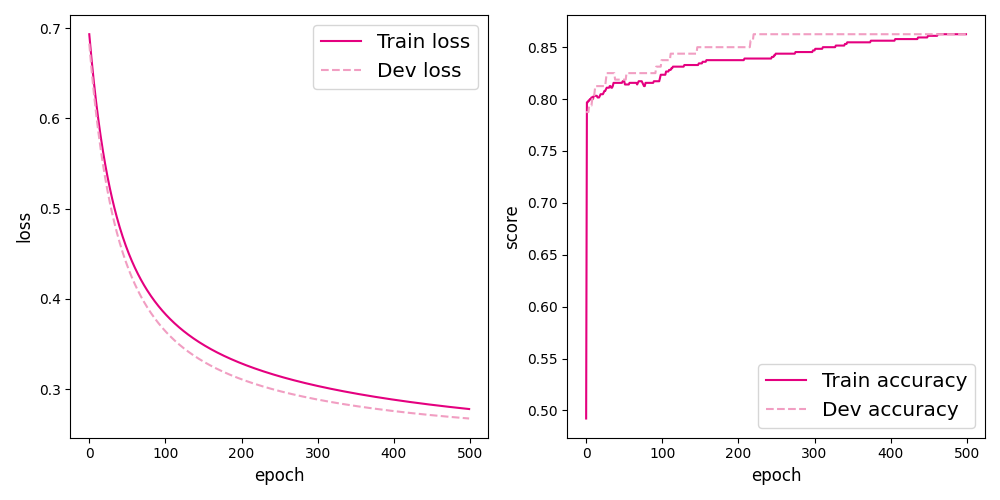
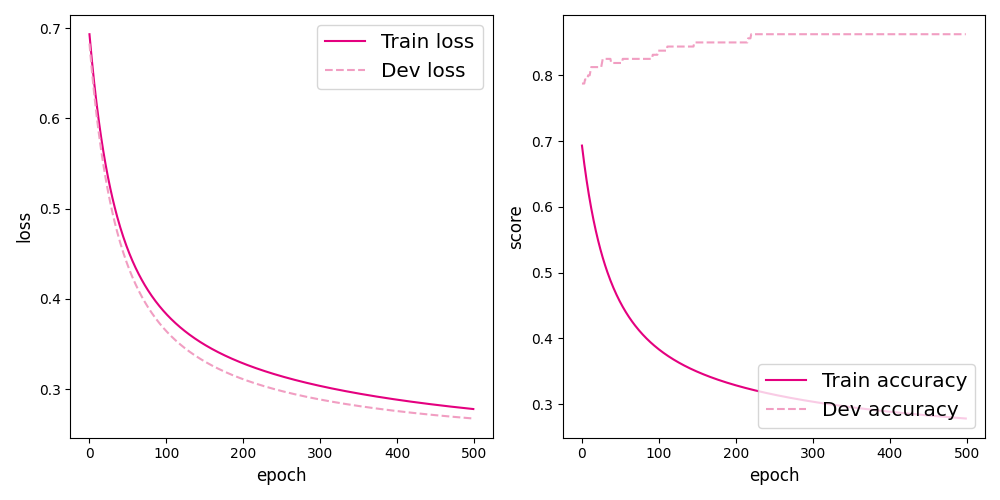
feat: 复现(1)_把trn_loss到train_scores

diff --git a/3_linear/nndl/runner.py b/3_linear/nndl/runner.py
@@ -34,7 +34,7 @@ class Runner(object):
             self.train_loss.append(trn_loss)
             # 计算评价指标
             trn_score = self.metric(logits, y).item()
-            self.train_scores.append(trn_score)
+            self.train_scores.append(trn_loss)
             # 计算参数梯度
             self.model.backward(y)
             if print_grads is not None:

diff --git a/3_linear/nndl/tools.py b/3_linear/nndl/tools.py
@@ -24,4 +24,4 @@ def plot(runner,fig_name):
     plt.legend(loc='lower right', fontsize='x-large')
     plt.tight_layout()
     plt.savefig(fig_name)
-    # plt.show()
+    plt.show()
